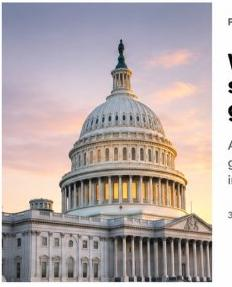
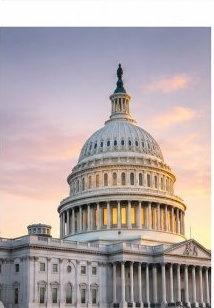
Match image sizes, article font sizes, and layout formats for Watch, Recent Videos, Editors Pick, In-Depth, and In Focus sections

diff --git a/src/components/InFocusAndMarketUpdateSection.tsx b/src/components/InFocusAndMarketUpdateSection.tsx
@@ -30,13 +30,13 @@ export default function InFocusAndMarketUpdateSection({
       </div>
 
       <div className="grid grid-cols-1 lg:grid-cols-12 gap-6 lg:gap-8 items-start">
-        {/* Left Column (col-span-7): Futuristic Skyline City Lead */}
+        {/* Left Column (col-span-8): Futuristic Skyline City Lead (~65% width) */}
         <article
           onClick={() => onArticleClick?.(inFocusLeadStory)}
-          className="lg:col-span-7 group cursor-pointer flex flex-col sm:flex-row gap-5 sm:gap-6 items-start"
+          className="lg:col-span-8 group cursor-pointer flex flex-col sm:flex-row gap-5 sm:gap-6 items-start"
         >
           {inFocusLeadStory.imageUrl && (
-            <div className="w-full sm:w-[250px] md:w-[270px] aspect-square relative overflow-hidden bg-neutral-100 shrink-0">
+            <div className="w-full sm:w-[250px] md:w-[265px] aspect-square relative overflow-hidden bg-neutral-100 shrink-0">
               <Image
                 src={inFocusLeadStory.imageUrl}
                 alt={inFocusLeadStory.imageAlt || inFocusLeadStory.title}
@@ -47,25 +47,25 @@ export default function InFocusAndMarketUpdateSection({
           )}
 
           <div className="flex flex-col justify-start">
-            <div className="font-sans font-bold text-[11px] text-neutral-500 uppercase tracking-wider mb-2">
+            <div className="font-sans font-bold text-[10.5px] text-neutral-500 uppercase tracking-wider mb-2">
               {inFocusLeadStory.category}
             </div>
-            <h3 className="font-sans font-bold text-[22px] sm:text-[25px] leading-[1.18] text-neutral-900 group-hover:underline">
+            <h3 className="font-sans font-bold text-[21px] sm:text-[23px] leading-[1.2] text-neutral-900 group-hover:underline">
               {inFocusLeadStory.title}
             </h3>
             {inFocusLeadStory.summary && (
-              <p className="font-sans text-[13px] sm:text-[13.5px] text-neutral-600 leading-relaxed font-normal mt-2.5">
+              <p className="font-sans text-[12.5px] sm:text-[13px] text-neutral-600 leading-relaxed font-normal mt-2.5">
                 {inFocusLeadStory.summary}
               </p>
             )}
-            <div className="font-sans font-semibold text-[11px] text-neutral-400 uppercase tracking-wide mt-3.5">
+            <div className="font-sans font-semibold text-[10.5px] text-neutral-400 uppercase tracking-wide mt-3">
               {inFocusLeadStory.time}
             </div>
           </div>
         </article>
 
-        {/* Right Column (col-span-5): 3 Stacked Items with Vertical Separator */}
-        <div className="lg:col-span-5 lg:border-l lg:border-neutral-200 lg:pl-8 flex flex-col justify-between space-y-4">
+        {/* Right Column (col-span-4): 3 Stacked Items with Vertical Separator (~35% width) */}
+        <div className="lg:col-span-4 lg:border-l lg:border-neutral-200 lg:pl-7 flex flex-col justify-between space-y-3.5">
           {inFocusSideList.map((item) => (
             <article
               key={item.id}
@@ -73,7 +73,7 @@ export default function InFocusAndMarketUpdateSection({
               className="group cursor-pointer flex items-start space-x-3.5 sm:space-x-4"
             >
               {item.imageUrl && (
-                <div className="w-[115px] h-[76px] sm:w-[125px] sm:h-[80px] relative overflow-hidden shrink-0 bg-neutral-100">
+                <div className="w-[110px] h-[72px] sm:w-[120px] sm:h-[78px] relative overflow-hidden shrink-0 bg-neutral-100">
                   <Image
                     src={item.imageUrl}
                     alt={item.imageAlt || item.title}
@@ -84,13 +84,13 @@ export default function InFocusAndMarketUpdateSection({
               )}
 
               <div className="flex flex-col justify-start">
-                <div className="font-sans font-bold text-[10.5px] sm:text-[11px] text-neutral-500 uppercase tracking-wider mb-0.5">
+                <div className="font-sans font-bold text-[10.5px] text-neutral-500 uppercase tracking-wider mb-0.5">
                   {item.category}
                 </div>
                 <h4 className="font-sans font-bold text-[13.5px] sm:text-[14px] leading-snug text-neutral-900 group-hover:underline">
                   {item.title}
                 </h4>
-                <div className="font-sans font-semibold text-[10.5px] text-neutral-400 uppercase tracking-wide mt-1.5">
+                <div className="font-sans font-semibold text-[10.5px] text-neutral-400 uppercase tracking-wide mt-1">
                   {item.time}
                 </div>
               </div>

diff --git a/src/components/InDepthDrivingChangeSection.tsx b/src/components/InDepthDrivingChangeSection.tsx
@@ -19,31 +19,31 @@ export default function InDepthDrivingChangeSection({
 
       {/* 
         Top Hero In-Depth Banner:
-        Left: IN-DEPTH, The People Driving Change in 2026, description, time
-        Right: NYC Skyline Panorama
+        Left: IN-DEPTH, The People Driving Change in 2026, description, time (50% split)
+        Right: NYC Skyline Panorama (50% split)
       */}
       <article
         onClick={() => onArticleClick?.(inDepthChangeLead)}
         className="group cursor-pointer border border-neutral-200/80 rounded-xs overflow-hidden bg-white shadow-xs grid grid-cols-1 md:grid-cols-12 items-stretch"
       >
-        <div className="md:col-span-7 p-6 sm:p-8 md:p-10 flex flex-col justify-center">
-          <div className="font-sans font-bold text-[11px] text-neutral-500 uppercase tracking-wider mb-2">
+        <div className="md:col-span-6 p-5 sm:p-7 md:p-8 flex flex-col justify-center">
+          <div className="font-sans font-bold text-[10.5px] text-neutral-500 uppercase tracking-wider mb-2">
             {inDepthChangeLead.category}
           </div>
-          <h2 className="font-sans font-bold text-[26px] sm:text-[32px] md:text-[36px] leading-[1.12] text-neutral-900 group-hover:underline">
+          <h2 className="font-sans font-bold text-[22px] sm:text-[26px] md:text-[28px] leading-[1.15] text-neutral-900 group-hover:underline">
             {inDepthChangeLead.title}
           </h2>
           {inDepthChangeLead.summary && (
-            <p className="font-sans text-[13.5px] sm:text-[14.5px] text-neutral-600 leading-relaxed mt-3 max-w-lg">
+            <p className="font-sans text-[12.5px] sm:text-[13px] text-neutral-600 leading-relaxed mt-2.5 max-w-lg">
               {inDepthChangeLead.summary}
             </p>
           )}
-          <div className="font-sans font-semibold text-[11px] text-neutral-400 uppercase tracking-wide mt-4">
+          <div className="font-sans font-semibold text-[10.5px] text-neutral-400 uppercase tracking-wide mt-3">
             {inDepthChangeLead.time}
           </div>
         </div>
 
-        <div className="md:col-span-5 relative min-h-[200px] md:min-h-full overflow-hidden bg-neutral-100">
+        <div className="md:col-span-6 relative min-h-[200px] md:min-h-full overflow-hidden bg-neutral-100">
           {inDepthChangeLead.imageUrl && (
             <Image
               src={inDepthChangeLead.imageUrl}
@@ -58,10 +58,10 @@ export default function InDepthDrivingChangeSection({
       </article>
 
       {/* 
-        Bottom 4-Card Grid matching media_1794023369503_59369454.jpg:
+        Bottom 4-Card Grid matching media_1794047157609_ec90f6ac.jpg:
         World (conflict), Business (markets), Technology (AI robot), Travel & Lifestyle (mountain)
       */}
-      <div className="grid grid-cols-1 sm:grid-cols-2 lg:grid-cols-4 gap-5 sm:gap-6 mt-8 sm:mt-10">
+      <div className="grid grid-cols-1 sm:grid-cols-2 lg:grid-cols-4 gap-6 lg:gap-8 mt-7 sm:mt-8">
         {inDepthChangeCards.map((card) => (
           <article
             key={card.id}
@@ -70,7 +70,7 @@ export default function InDepthDrivingChangeSection({
           >
             <div>
               {card.imageUrl && (
-                <div className="relative aspect-[16/10] w-full overflow-hidden bg-neutral-100 mb-2.5">
+                <div className="relative aspect-[16/10] w-full overflow-hidden bg-neutral-100 mb-2">
                   <Image
                     src={card.imageUrl}
                     alt={card.imageAlt || card.title}
@@ -79,14 +79,14 @@ export default function InDepthDrivingChangeSection({
                   />
                 </div>
               )}
-              <div className="font-sans font-bold text-[11px] text-neutral-500 uppercase tracking-wider mb-1">
+              <div className="font-sans font-bold text-[10.5px] text-neutral-500 uppercase tracking-wider mb-1">
                 {card.category}
               </div>
-              <h3 className="font-sans font-bold text-[15px] sm:text-[15.5px] leading-[1.3] text-neutral-900 group-hover:underline">
+              <h3 className="font-sans font-bold text-[14px] sm:text-[14.5px] leading-snug text-neutral-900 group-hover:underline">
                 {card.title}
               </h3>
             </div>
-            <div className="font-sans font-semibold text-[11px] text-neutral-400 uppercase tracking-wide mt-2">
+            <div className="font-sans font-semibold text-[10.5px] text-neutral-400 uppercase tracking-wide mt-2">
               {card.time}
             </div>
           </article>

diff --git a/src/components/EditorsPicks.tsx b/src/components/EditorsPicks.tsx
@@ -29,7 +29,7 @@ export default function EditorsPicks({ onArticleClick }: EditorsPicksProps) {
           className="lg:col-span-7 group cursor-pointer flex flex-col sm:flex-row gap-5 sm:gap-6 items-start"
         >
           {editorLeadStory.imageUrl && (
-            <div className="w-full sm:w-[240px] md:w-[260px] aspect-[4/5] sm:aspect-auto sm:h-[285px] relative overflow-hidden bg-neutral-100 shrink-0">
+            <div className="w-full sm:w-[220px] md:w-[240px] aspect-[4/5] relative overflow-hidden bg-neutral-100 shrink-0">
               <Image
                 src={editorLeadStory.imageUrl}
                 alt={editorLeadStory.imageAlt || editorLeadStory.title}
@@ -40,35 +40,35 @@ export default function EditorsPicks({ onArticleClick }: EditorsPicksProps) {
           )}
 
           <div className="flex flex-col justify-start">
-            <div className="font-sans font-bold text-[11px] text-neutral-500 uppercase tracking-wider mb-2">
+            <div className="font-sans font-bold text-[10.5px] text-neutral-500 uppercase tracking-wider mb-2">
               {editorLeadStory.category}
             </div>
-            <h3 className="font-sans font-bold text-[22px] sm:text-[25px] leading-[1.18] text-neutral-900 group-hover:underline">
+            <h3 className="font-sans font-bold text-[21px] sm:text-[23px] leading-[1.2] text-neutral-900 group-hover:underline">
               {editorLeadStory.title}
             </h3>
             {editorLeadStory.summary && (
-              <p className="font-sans text-[13px] sm:text-[13.5px] text-neutral-600 leading-relaxed font-normal mt-3">
+              <p className="font-sans text-[12.5px] sm:text-[13px] text-neutral-600 leading-relaxed font-normal mt-2.5">
                 {editorLeadStory.summary}
               </p>
             )}
-            <div className="font-sans font-semibold text-[11px] text-neutral-400 uppercase tracking-wide mt-4">
+            <div className="font-sans font-semibold text-[10.5px] text-neutral-400 uppercase tracking-wide mt-3">
               {editorLeadStory.time}
             </div>
           </div>
         </article>
 
         {/* Right Column (col-span-5): 3 Stacked Items with Vertical Separator */}
-        <div className="lg:col-span-5 lg:border-l lg:border-neutral-200 lg:pl-8 flex flex-col justify-start">
+        <div className="lg:col-span-5 lg:border-l lg:border-neutral-200 lg:pl-7 flex flex-col justify-start">
           {editorSideList.map((item, idx) => (
             <article
               key={item.id}
               onClick={() => onArticleClick?.(item)}
               className={`group cursor-pointer flex items-start space-x-3.5 sm:space-x-4 ${
-                idx < editorSideList.length - 1 ? 'border-b border-neutral-200 pb-4 mb-4' : ''
+                idx < editorSideList.length - 1 ? 'border-b border-neutral-200 pb-3.5 mb-3.5' : ''
               }`}
             >
               {item.imageUrl && (
-                <div className="w-[115px] h-[76px] sm:w-[125px] sm:h-[82px] relative overflow-hidden shrink-0 bg-neutral-100">
+                <div className="w-[120px] h-[78px] sm:w-[130px] sm:h-[84px] relative overflow-hidden shrink-0 bg-neutral-100">
                   <Image
                     src={item.imageUrl}
                     alt={item.imageAlt || item.title}
@@ -79,7 +79,7 @@ export default function EditorsPicks({ onArticleClick }: EditorsPicksProps) {
               )}
 
               <div className="flex flex-col justify-start">
-                <div className="font-sans font-bold text-[10.5px] sm:text-[11px] text-neutral-500 uppercase tracking-wider mb-0.5">
+                <div className="font-sans font-bold text-[10.5px] text-neutral-500 uppercase tracking-wider mb-0.5">
                   {item.category}
                 </div>
                 <h4 className="font-sans font-bold text-[13.5px] sm:text-[14px] leading-snug text-neutral-900 group-hover:underline">

diff --git a/src/components/RecentVideosSection.tsx b/src/components/RecentVideosSection.tsx
@@ -27,7 +27,7 @@ export default function RecentVideosSection({
           <h2 className="font-sans font-bold text-[28px] text-neutral-900 tracking-tight leading-tight">
             Recent Videos
           </h2>
-          <p className="font-sans text-[13px] sm:text-[14px] text-neutral-600 mt-0.5">
+          <p className="font-sans text-[13px] sm:text-[13.5px] text-neutral-600 mt-0.5">
             Watch the latest reports, analyses and exclusive coverage from our newsroom.
           </p>
         </div>
@@ -42,7 +42,7 @@ export default function RecentVideosSection({
       </div>
 
       {/* 5 Video Cards Row */}
-      <div className="grid grid-cols-1 sm:grid-cols-2 md:grid-cols-3 lg:grid-cols-5 gap-4 sm:gap-5">
+      <div className="grid grid-cols-1 sm:grid-cols-2 md:grid-cols-3 lg:grid-cols-5 gap-2.5 sm:gap-3 lg:gap-3.5">
         {recentVideosList.map((video) => (
           <article
             key={video.id}
@@ -54,7 +54,7 @@ export default function RecentVideosSection({
           >
             <div>
               {video.imageUrl && (
-                <div className="relative aspect-[16/10] w-full overflow-hidden bg-neutral-100 mb-2">
+                <div className="relative aspect-[16/9] w-full overflow-hidden bg-neutral-100 mb-2">
                   <Image
                     src={video.imageUrl}
                     alt={video.imageAlt || video.title}
@@ -74,18 +74,18 @@ export default function RecentVideosSection({
                 </div>
               )}
 
-              <h3 className="font-sans font-bold text-[13.5px] sm:text-[14px] leading-snug text-neutral-900 group-hover:underline">
+              <h3 className="font-sans font-bold text-[13px] sm:text-[13.5px] leading-snug text-neutral-900 group-hover:underline">
                 {video.title}
               </h3>
 
               {video.summary && (
-                <p className="font-sans text-[12px] sm:text-[12.5px] text-neutral-600 leading-relaxed font-normal mt-1.5 line-clamp-3">
+                <p className="font-sans text-[11px] sm:text-[11.5px] text-neutral-600 leading-snug font-normal mt-1.5 line-clamp-3">
                   {video.summary}
                 </p>
               )}
             </div>
 
-            <div className="flex items-center space-x-1.5 font-sans font-semibold text-[11px] text-neutral-400 tracking-wide mt-2.5">
+            <div className="flex items-center space-x-1.5 font-sans font-semibold text-[10px] sm:text-[10.5px] text-neutral-500 tracking-wide mt-2.5">
               <span>{video.category}</span>
               <span>|</span>
               <span>{video.time}</span>

diff --git a/src/components/WatchHero.tsx b/src/components/WatchHero.tsx
@@ -25,8 +25,8 @@ export default function WatchHero({ onVideoClick }: WatchHeroProps) {
         onClick={() => onVideoClick?.(watchHeroCinema)}
         className="group cursor-pointer grid grid-cols-1 md:grid-cols-12 bg-black overflow-hidden shadow-xs"
       >
-        {/* Left: Macro Snake Image (~65% width) */}
-        <div className="md:col-span-8 relative aspect-[16/10] sm:aspect-[16/9] md:aspect-auto md:min-h-[320px] w-full overflow-hidden bg-neutral-900">
+        {/* Left: Macro Snake Image (2/3 width) */}
+        <div className="md:col-span-8 relative aspect-[16/9] w-full overflow-hidden bg-neutral-900">
           <Image
             src={watchHeroCinema.imageUrl || '/watch-snake-macro.jpg'}
             alt={watchHeroCinema.imageAlt || watchHeroCinema.title}
@@ -39,13 +39,13 @@ export default function WatchHero({ onVideoClick }: WatchHeroProps) {
           </div>
         </div>
 
-        {/* Right: Black content box (~35% width) */}
-        <div className="md:col-span-4 bg-black text-white p-6 sm:p-8 flex flex-col justify-center items-start">
-          <h3 className="font-serif font-bold text-[20px] sm:text-[23px] text-white leading-snug group-hover:underline">
+        {/* Right: Black content box (1/3 width) */}
+        <div className="md:col-span-4 bg-black text-white p-6 sm:p-7 md:p-8 flex flex-col justify-center items-start">
+          <h3 className="font-serif font-bold text-[18px] sm:text-[21px] text-white leading-snug group-hover:underline">
             {watchHeroCinema.title}
           </h3>
           {watchHeroCinema.summary && (
-            <p className="font-sans text-[13px] sm:text-[13.5px] text-neutral-300 leading-relaxed mt-3">
+            <p className="font-serif text-[12px] sm:text-[12.5px] text-neutral-300 leading-relaxed mt-3">
               {watchHeroCinema.summary}
             </p>
           )}
@@ -54,7 +54,7 @@ export default function WatchHero({ onVideoClick }: WatchHeroProps) {
               e.stopPropagation();
               onVideoClick?.(watchHeroCinema);
             }}
-            className="border border-white text-white font-sans text-xs font-semibold px-4 py-1.5 mt-5 hover:bg-white hover:text-black transition cursor-pointer"
+            className="border border-white text-white font-sans text-[11px] sm:text-xs font-semibold px-3.5 py-1.5 mt-4 hover:bg-white hover:text-black transition cursor-pointer"
           >
             See more
           </button>
